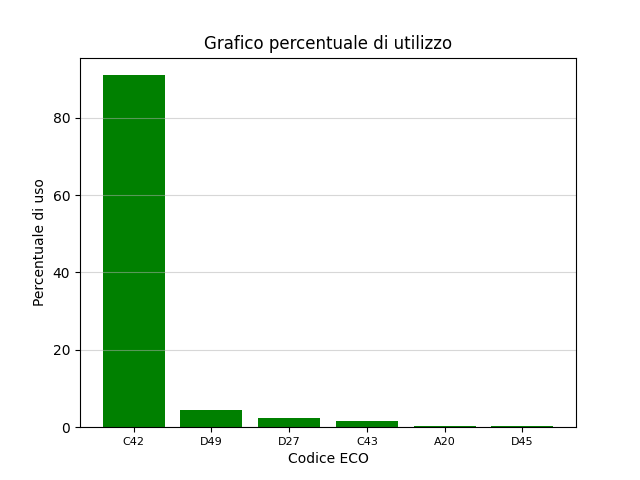
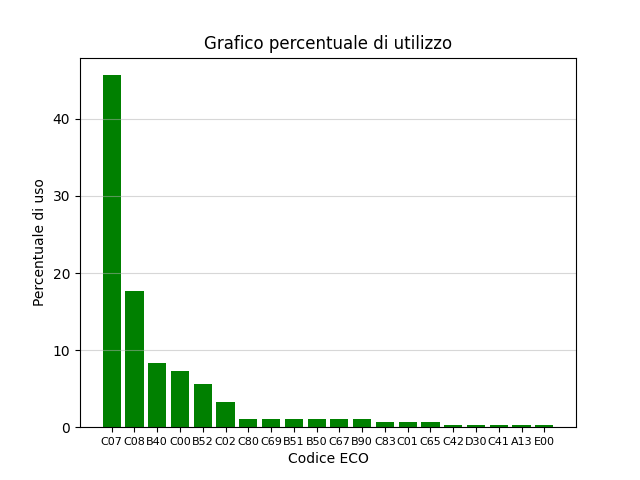
update results

Changed region(s): [[0.0625, 0.1562, 0.9062, 0.9375], [0.0625, 0.7188, 0.125, 0.75]]

diff --git a/tools/source_code/Opening_Analyzer.py b/tools/source_code/Opening_Analyzer.py
@@ -175,4 +175,4 @@ def main(filename):
     'Percentage of win': y_data_winning
 })
    
-main(r'/Users/lucacanali/Documents/GitHub/tirocinio_lucacanali/dataset/game_script_eros/koiv_lc0/1sec/Koivisto_lc0_1sec_fix_exported.pgn')
+main(r'C:\Users\canal\Documents\GitHub\tirocinio_lucacanali\dataset\game_script_eros\koiv_berserk\0,1sec\all_games_0,1_exported.pgn')
